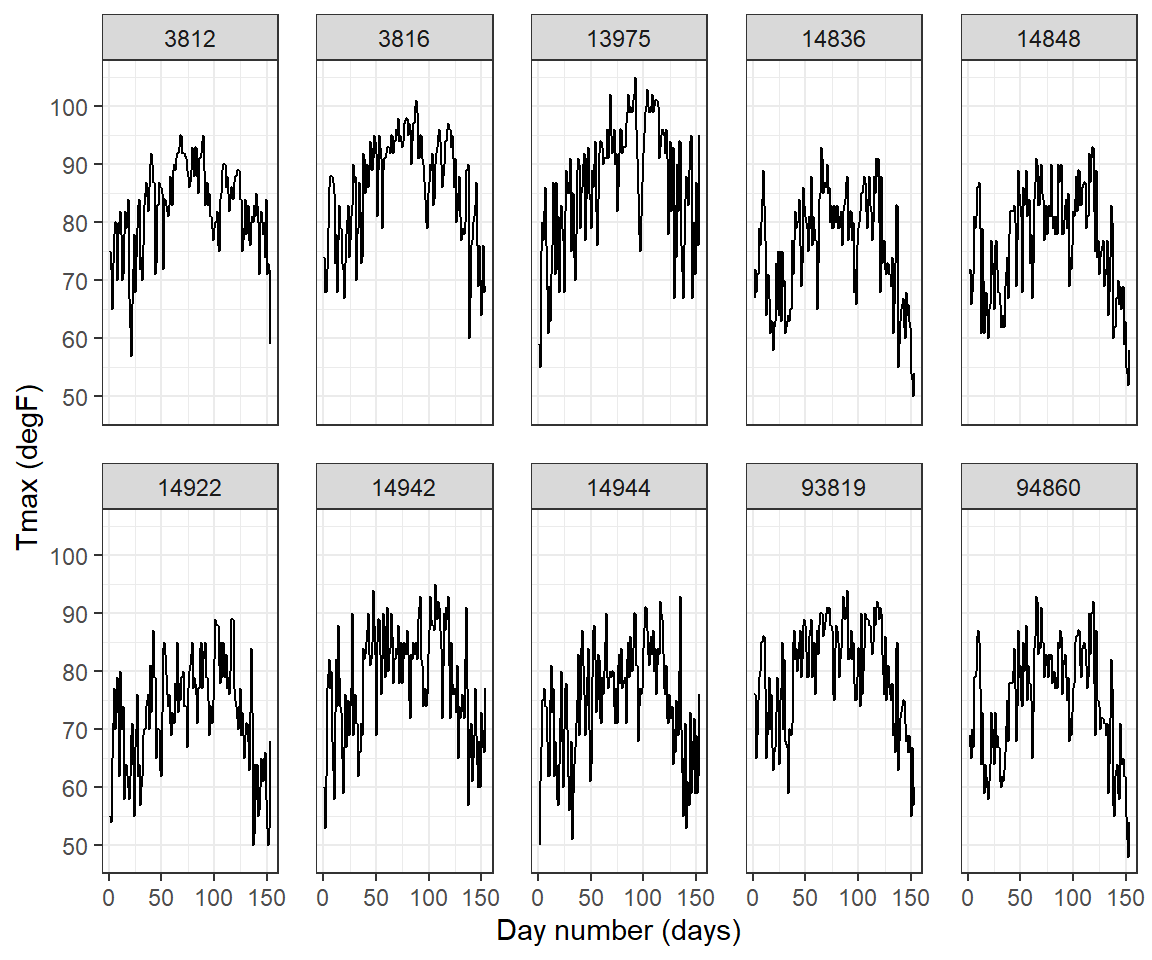
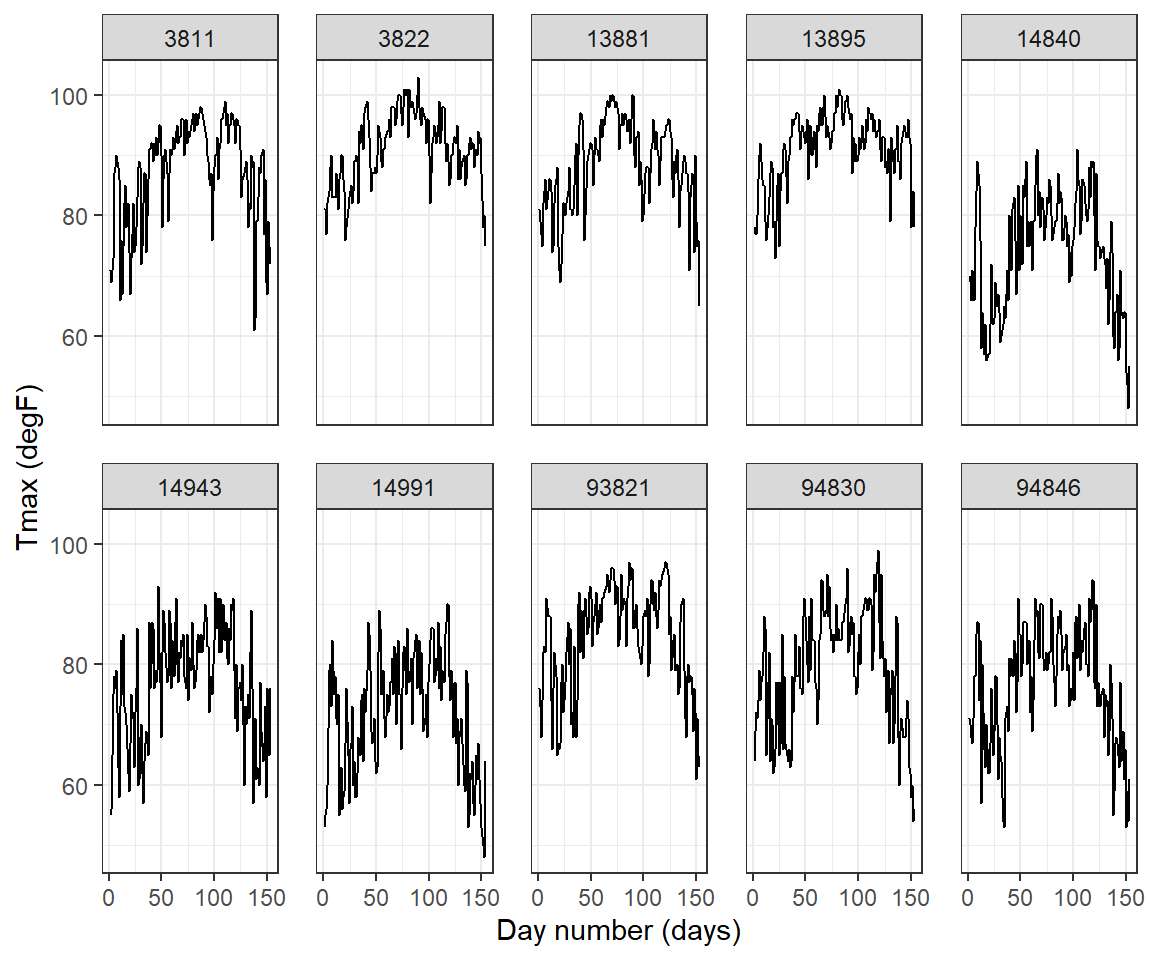
August 10th

diff --git a/Week11.html b/Week11.html
@@ -276,7 +276,10 @@ $(document).ready(function () {
   <a href="Week11.html">Week 11</a>
 </li>
 <li>
-  <a href="WeekX.html">WeekX</a>
+  <a href="Example1.html">Example 1</a>
+</li>
+<li>
+  <a href="Extra1.html">Extra 1</a>
 </li>
       </ul>
       <ul class="nav navbar-nav navbar-right">
@@ -309,8 +312,6 @@ class="toc-section-number">3</span> Time-Series Plots</a></li>
 <div style="margin-bottom:50px;">
 
 </div>
-<p><span style="color: red;">Due to the Easter Break, this Lab will be
-held in Week 12. </span></p>
 <div id="introduction" class="section level1" number="1">
 <h1><span class="header-section-number">1</span> Introduction</h1>
 <ul>
@@ -388,13 +389,13 @@ NOAA_plot</code></pre>
 UIDs_sub &lt;- sample(UIDs, 10)                # sample 10 IDs
 Tmax_sub &lt;- filter(Tmax, id %in% UIDs_sub)  # subset data
 head(Tmax_sub)</code></pre>
-<pre><code>##   julian year month day   id  z proc      lat       lon       date t
-## 1 728050 1993     5   1 3812 75 Tmax 35.43333 -82.48333 1993-05-01 1
-## 2 728051 1993     5   2 3812 72 Tmax 35.43333 -82.48333 1993-05-02 2
-## 3 728052 1993     5   3 3812 65 Tmax 35.43333 -82.48333 1993-05-03 3
-## 4 728053 1993     5   4 3812 73 Tmax 35.43333 -82.48333 1993-05-04 4
-## 5 728054 1993     5   5 3812 78 Tmax 35.43333 -82.48333 1993-05-05 5
-## 6 728055 1993     5   6 3812 80 Tmax 35.43333 -82.48333 1993-05-06 6</code></pre>
+<pre><code>##   julian year month day   id  z proc  lat       lon       date t
+## 1 728050 1993     5   1 3811 71 Tmax 35.6 -88.91666 1993-05-01 1
+## 2 728051 1993     5   2 3811 69 Tmax 35.6 -88.91666 1993-05-02 2
+## 3 728052 1993     5   3 3811 71 Tmax 35.6 -88.91666 1993-05-03 3
+## 4 728053 1993     5   4 3811 73 Tmax 35.6 -88.91666 1993-05-04 4
+## 5 728054 1993     5   5 3811 87 Tmax 35.6 -88.91666 1993-05-05 5
+## 6 728055 1993     5   6 3811 88 Tmax 35.6 -88.91666 1993-05-06 6</code></pre>
 <p>Next, time-series is plotted.</p>
 <pre class="r"><code>## ------------------------------------------------------------------------
 TmaxTS &lt;- ggplot(Tmax_sub) +
